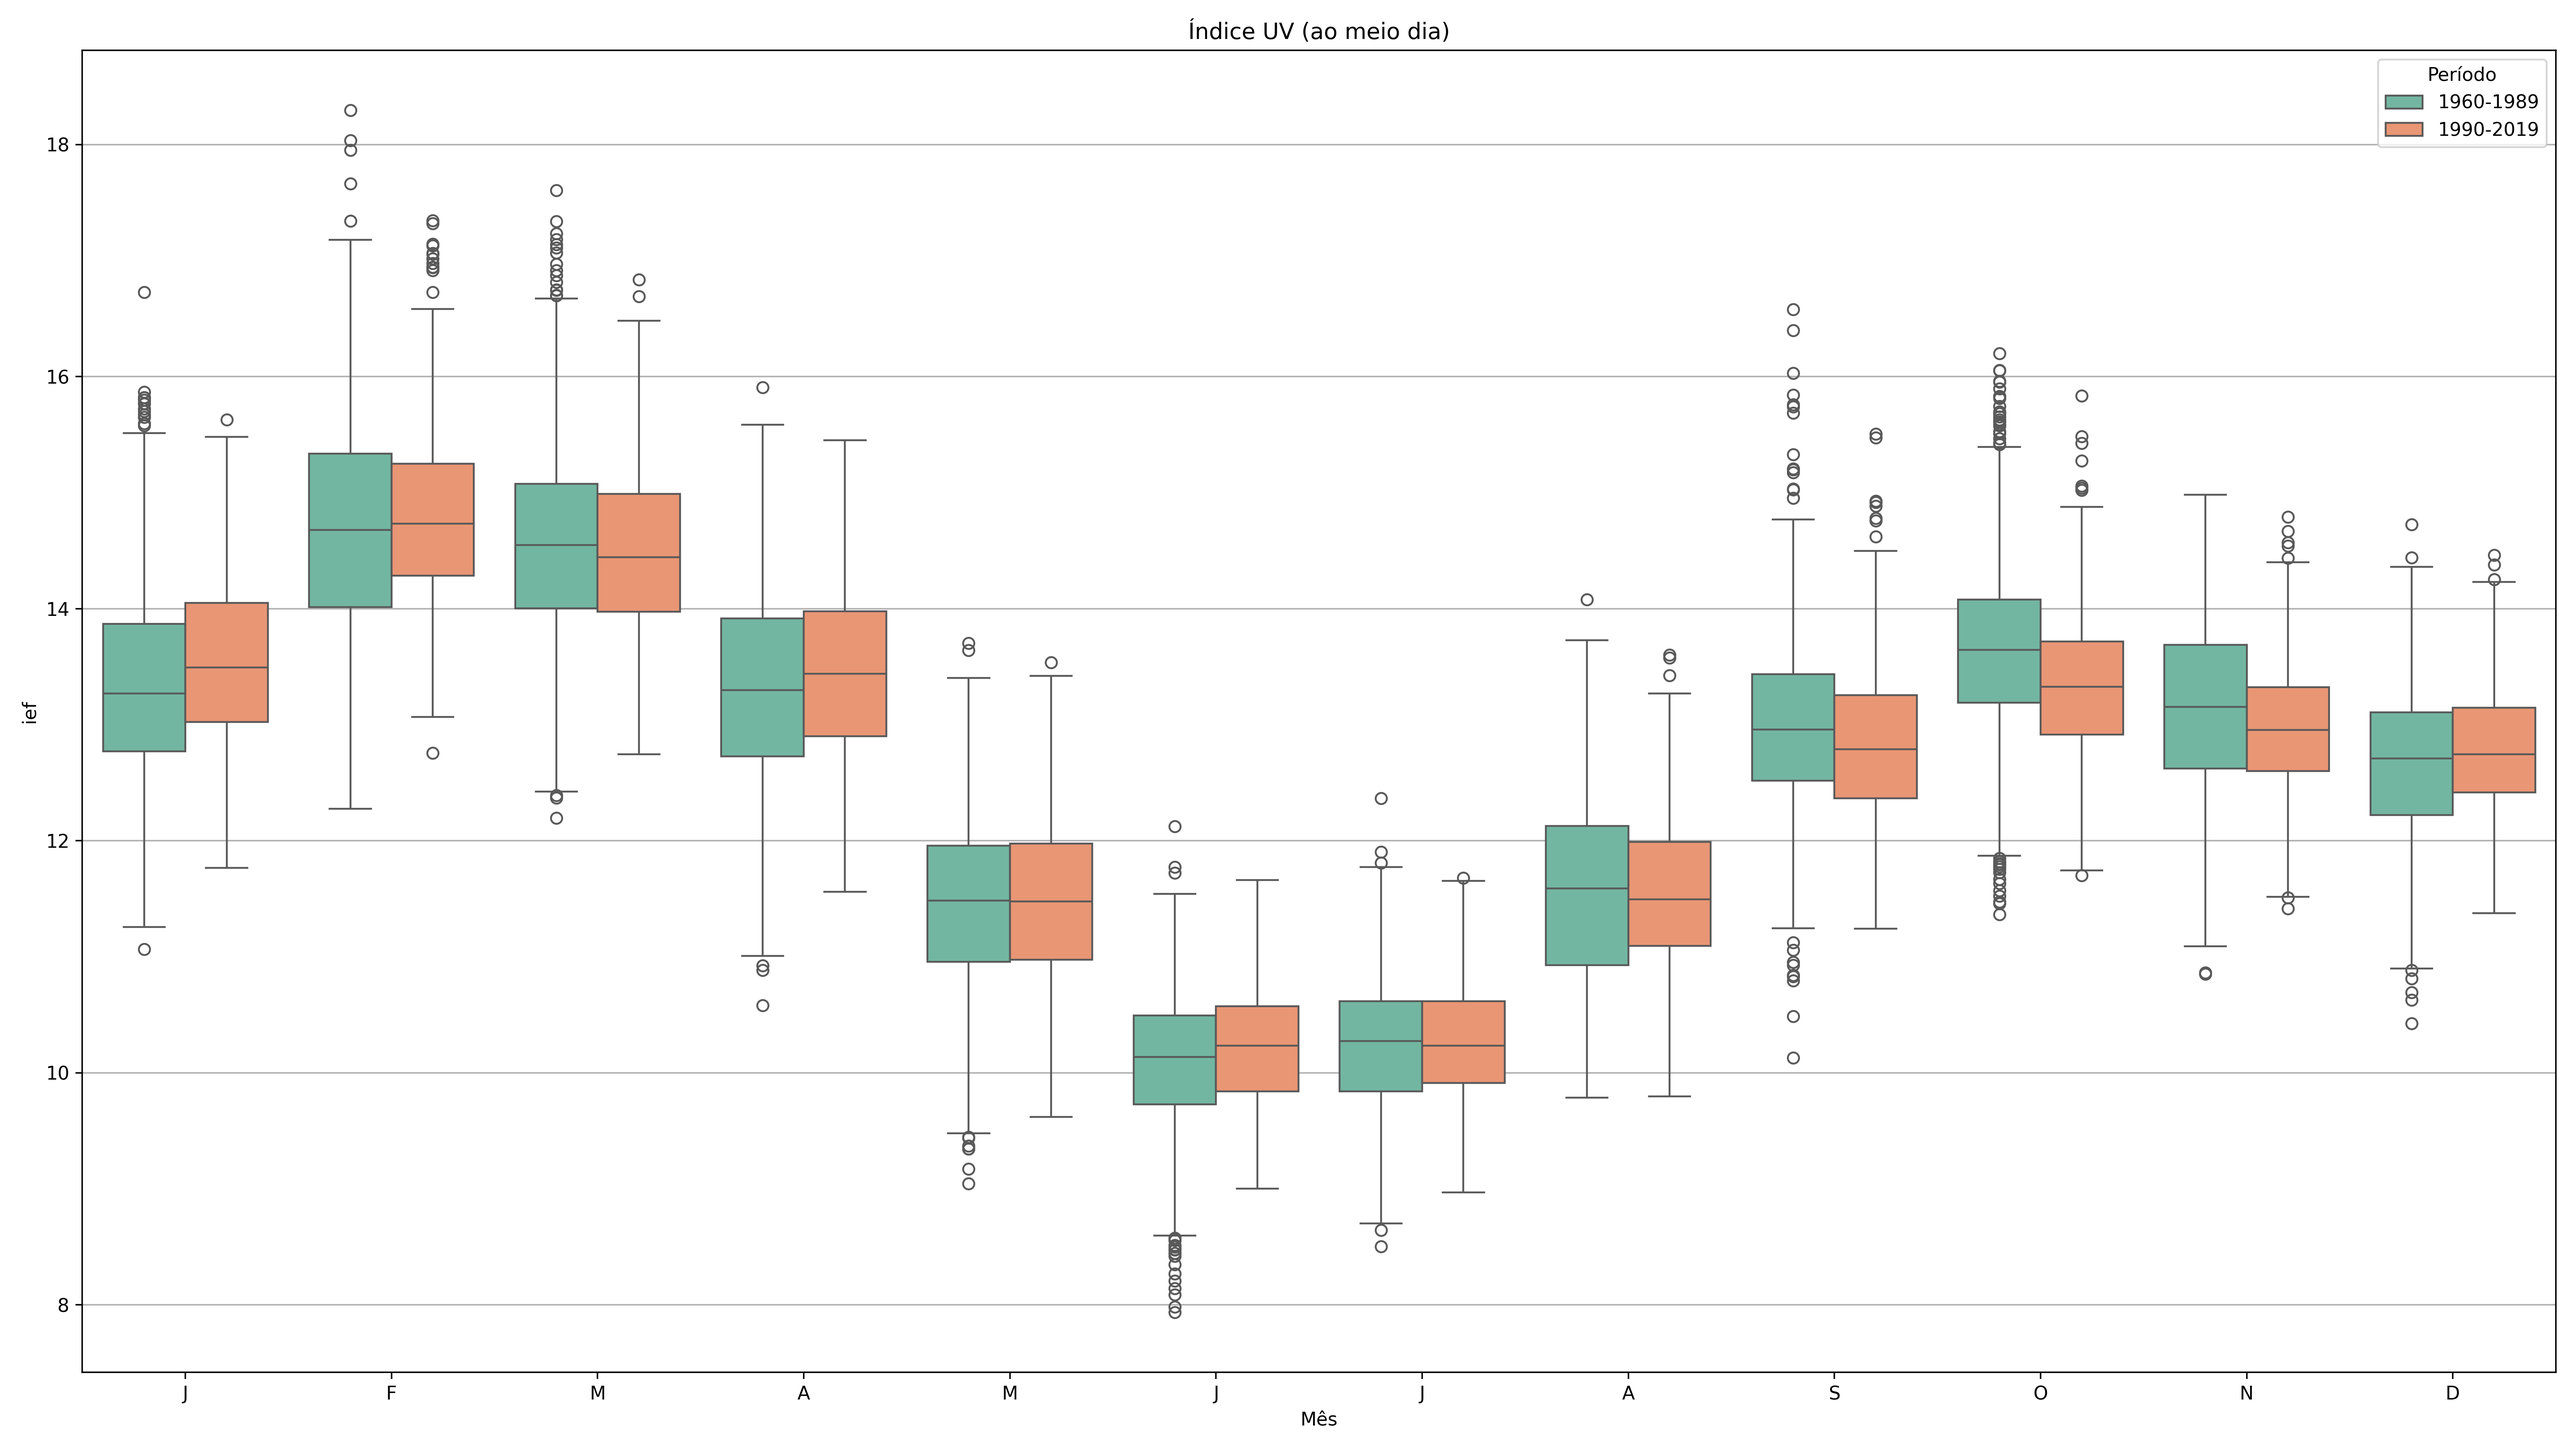
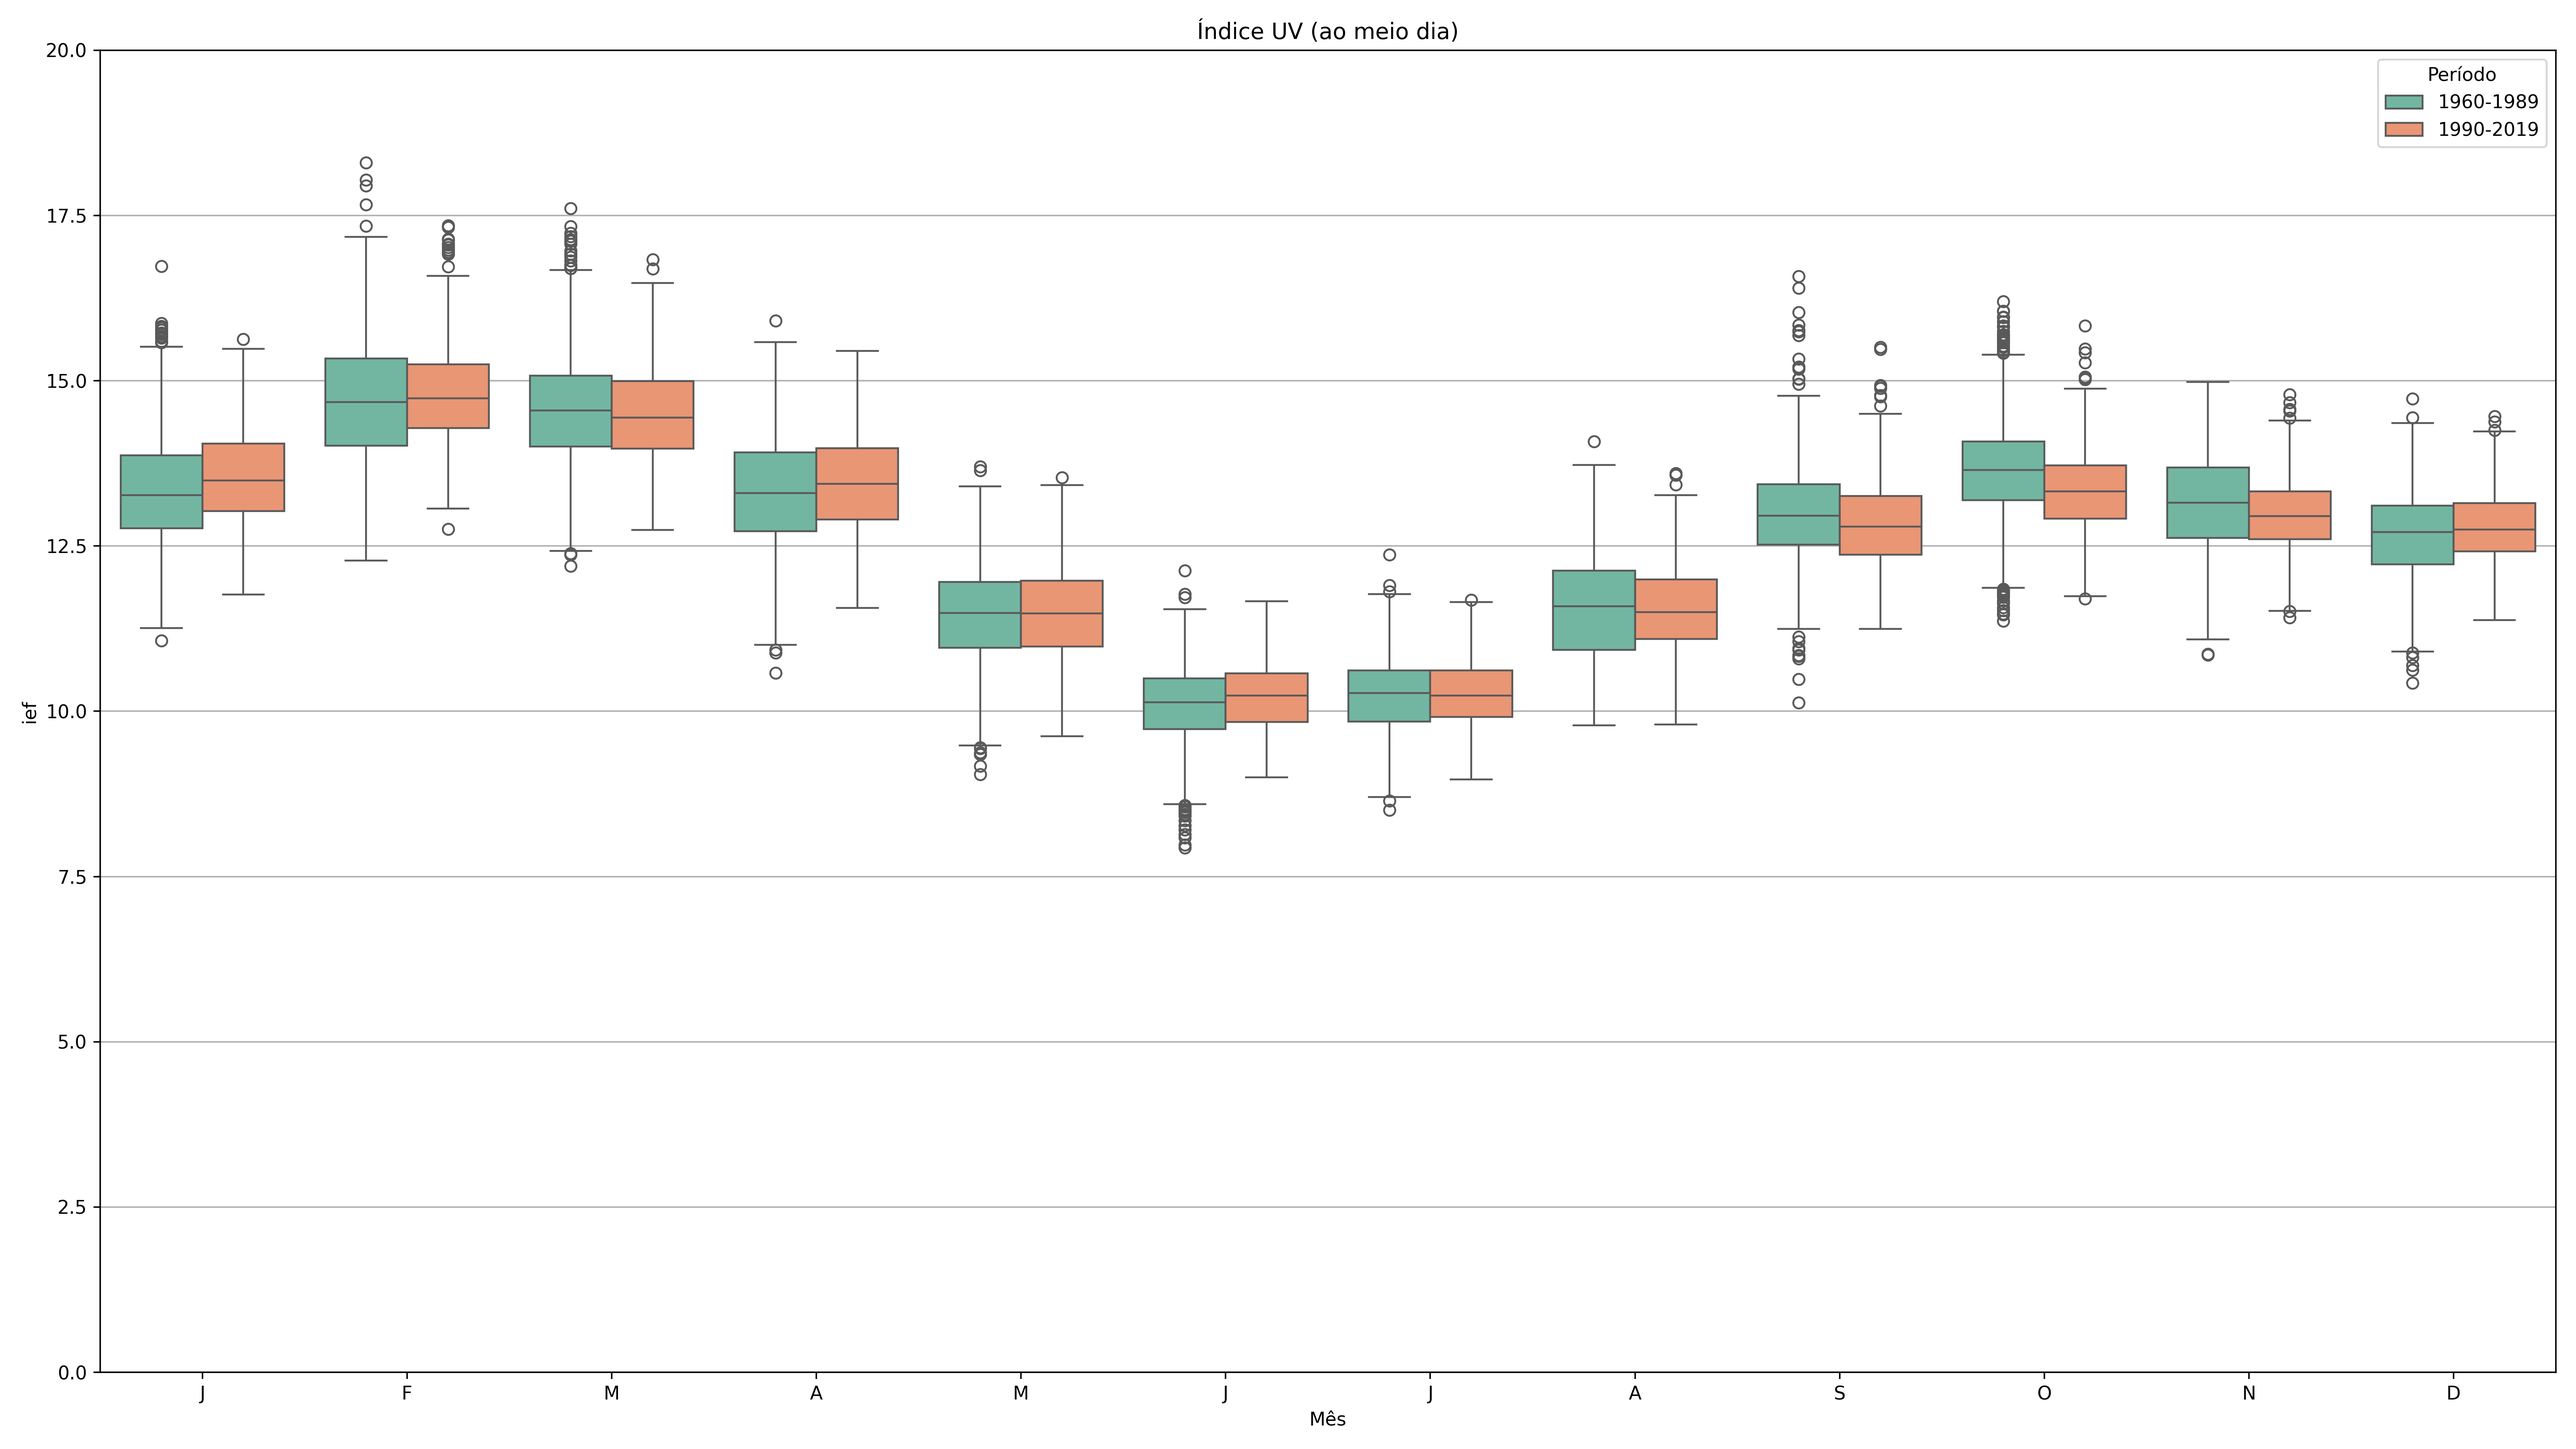
Implementados cálculo e gráficos das tendências relativas a cada dia do ano ao longo de 30 anos.

diff --git a/tendencias.py b/tendencias.py
@@ -1,0 +1,100 @@
+import pandas as pd
+import numpy as np
+import matplotlib.pyplot as plt
+from sklearn.linear_model import LinearRegression
+from datetime import datetime
+import matplotlib.dates as mdates
+
+# Trazendo dados do arquivo
+caminho = "/home/santiago/Projetos/temis-uvi/dados/Maracanau.csv"
+uv = pd.read_csv(caminho, skiprows=1, na_values=-999.0, parse_dates=['data'])
+vars = uv.columns[1:]
+
+# Agrupando por ano e por dia do ano
+uv['ano'] = uv['data'].dt.year
+uv['dia'] = uv['data'].dt.day_of_year
+
+# Separando períodos de 30 anos 
+uv['periodo'] = '2020 em diante'
+uv.loc[(uv['ano'] >= 1960) & (uv['ano'] <= 1989), 'periodo'] = '1960-1989'
+uv.loc[(uv['ano'] >= 1990) & (uv['ano'] <= 2019), 'periodo'] = '1990-2019'
+uv = uv[uv['periodo'].isin(['1960-1989', '1990-2019'])]
+
+# Função para cálculo das tendências
+def calcular_tendencias(dados):
+    X = dados['ano'].values.reshape(-1, 1)
+    tendencias = {}
+    for variavel in vars:
+        dados_limpos = dados.dropna(subset=[variavel])
+        if len(dados_limpos) > 1:
+           y = dados_limpos[variavel].values
+           modelo = LinearRegression()
+           indices_X = np.where(np.isin(dados['ano'], dados_limpos['ano']))[0]
+           X_limpo = X[indices_X]
+           #X_limpo = X[dados_limpos.index.to_numpy() - dados.index.to_numpy()[0]]
+           modelo.fit(X_limpo, y)
+           tendencias[variavel] = modelo.coef_[0]
+        else:
+           tendencias[variavel] = no.nan
+        #y = dados[variavel].values
+        #modelo = LinearRegression()
+        #modelo.fit(X, y)
+        #tendencias[variavel] = modelo.coef_[0]
+    return tendencias
+
+# Armazenando as tendêncas calculadas em um dataframe
+tendencias = pd.DataFrame(index=range(1, 367), 
+                          columns=['dia'] + 
+                          [f'tend_p1_{var}' for var in vars] +
+                          [f'tend_p2_{var}' for var in vars])
+
+ # Calculando tendências para cada dia do ano
+for dia in range(1, 367):
+    dados_dia = uv[uv['dia'] == dia]
+
+    dados_p1 = dados_dia[dados_dia['periodo'] == '1960-1989']
+    if not dados_p1.empty: 
+      tendencias_p1 = calcular_tendencias(dados_p1)
+    else:
+      tendencias_p1 = {var: np.nan for var in vars}
+
+    dados_p2 = dados_dia[dados_dia['periodo'] == '1990-2019']
+    if not dados_p2.empty:
+       tendencias_p2 = calcular_tendencias(dados_p2)
+    else:
+       tendencias_p2 = {var: np.nan for var in vars}
+
+    tendencias.loc[dia - 1] = [dia] + [tendencias_p1[var] for var in vars] + [tendencias_p2[var] for var in vars]
+
+# Removendo dias sem dados
+tendencias = tendencias.dropna()
+tendencias = tendencias.sort_values(by='dia')
+
+datas = [datetime(2023, 1, 1) + pd.Timedelta(days=int(dia)) for dia in tendencias.index]
+
+titulos = ['Índice UV (ao meio dia)',
+           'Dose UV diária eritemal', 
+           'Dose UV diária de ativação da Vit. D',
+           'Dose UV diária de dano ao DNA']
+
+# Produzindo os gráficos
+for i, variavel in enumerate(vars):
+    #plt.figure(figsize=(19.2, 10.8), dpi=320)
+    ax = plt.gca()
+
+    plt.plot(datas, tendencias[f'tend_p1_{variavel}'], label='1960-1989')
+    plt.plot(datas, tendencias[f'tend_p2_{variavel}'], label='1990-2019')
+
+    ax.xaxis.set_major_locator(mdates.MonthLocator())
+    ax.xaxis.set_major_formatter(mdates.DateFormatter('%b'))
+
+    plt.title(f'Tendências de {titulos[i]} por dia do ano')
+    plt.xlabel('Dia do ano')
+    plt.xlim(min(datas), max(datas))
+    plt.ylabel('Coeficiente de inclinação (tendência)')
+    plt.ylim(-0.04, 0.04)
+    plt.legend()
+    plt.grid(True)
+    plt.tight_layout()
+    plt.savefig(f'graficos/tendencias_{variavel}.png')
+    plt.close()

diff --git a/decadas.py b/decadas.py
@@ -14,11 +14,13 @@ resultados = df.groupby(['decada', 'mes_na_decada']).agg(['mean', 'std'])
 min_val = df[['ief', 'dvc', 'dec', 'ddc']].min().min()
 max_val = df[['ief', 'dvc', 'dec', 'ddc']].max().max()
 
+plt.figure(figsize=(19.2, 10.8), dpi=320)
 variaveis = ['ief', 'dvc', 'dec', 'ddc']
 for var in variaveis:
     plt.figure(figsize=(21, 9))
     for decada in resultados.index.levels[0]:
         dados_decada = resultados.loc[decada, var]
+        plt.figure(figsize=(19.2, 10.8), dpi=320)
         plt.plot(dados_decada.index, dados_decada['mean'], label=f'{decada}s')
 
         plt.fill_between(
@@ -31,14 +33,14 @@ for var in variaveis:
         plt.xlim(1, 120)
         plt.ylim(min_val-1, max_val+1)
         plt.xticks(np.arange(12, 121, 12))
-        #plt.tight_layout()
+        
         plt.title(f'{var.upper()} - médias e desvios padrão (sobreposição por década)', fontsize=16)
-        plt.xlabel('Meses', fontsize=14)
-        plt.ylabel(var, fontsize=14)
-        plt.legend(fontsize=16)
+        plt.xlabel('Meses')
+        plt.ylabel(var)
+        plt.legend()
         plt.grid()
-        #plt.show()
-        figname = f'graficos/decadas_{var}.png'       
-        plt.savefig(figname, dpi=300, bbox_inches='tight')
+        plt.tight_layout()
+        plt.savefig(f'graficos/decadas_{var}.png')
+        plt.close()
 
 exit()

diff --git a/dispersao.py b/dispersao.py
@@ -38,6 +38,7 @@ def boxes(dados, variavel, titulo):
     plt.title(titulo)
     plt.xlabel('Mês')
     plt.ylabel(variavel)
+    plt.ylim(0, 20)
     plt.tight_layout()
 
     plt.savefig(f'graficos/dispersao_{variavel}.png')
